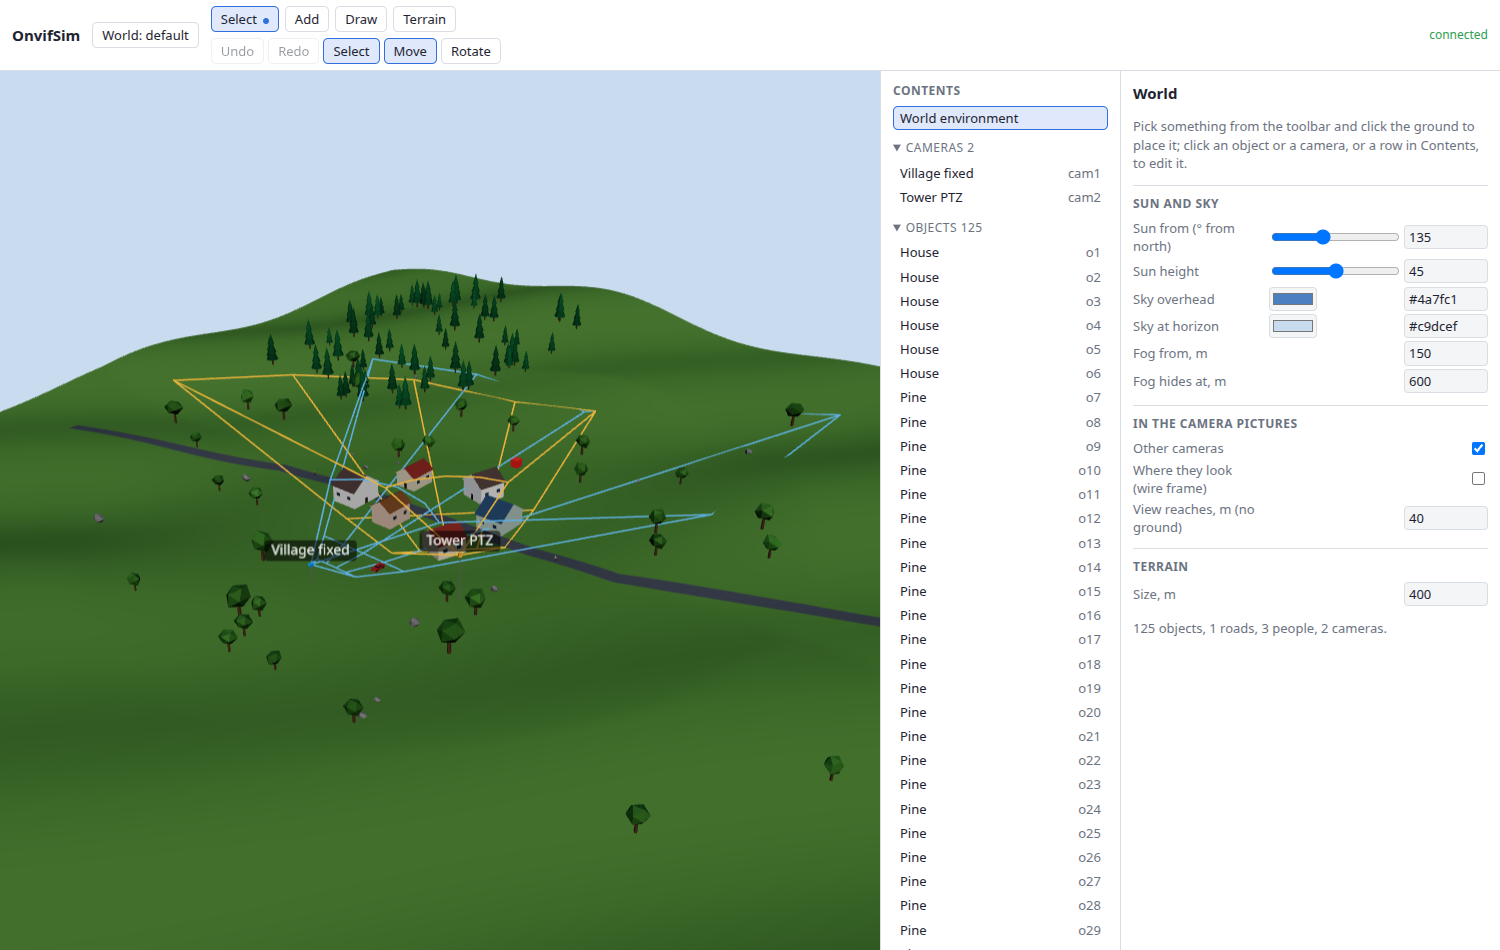
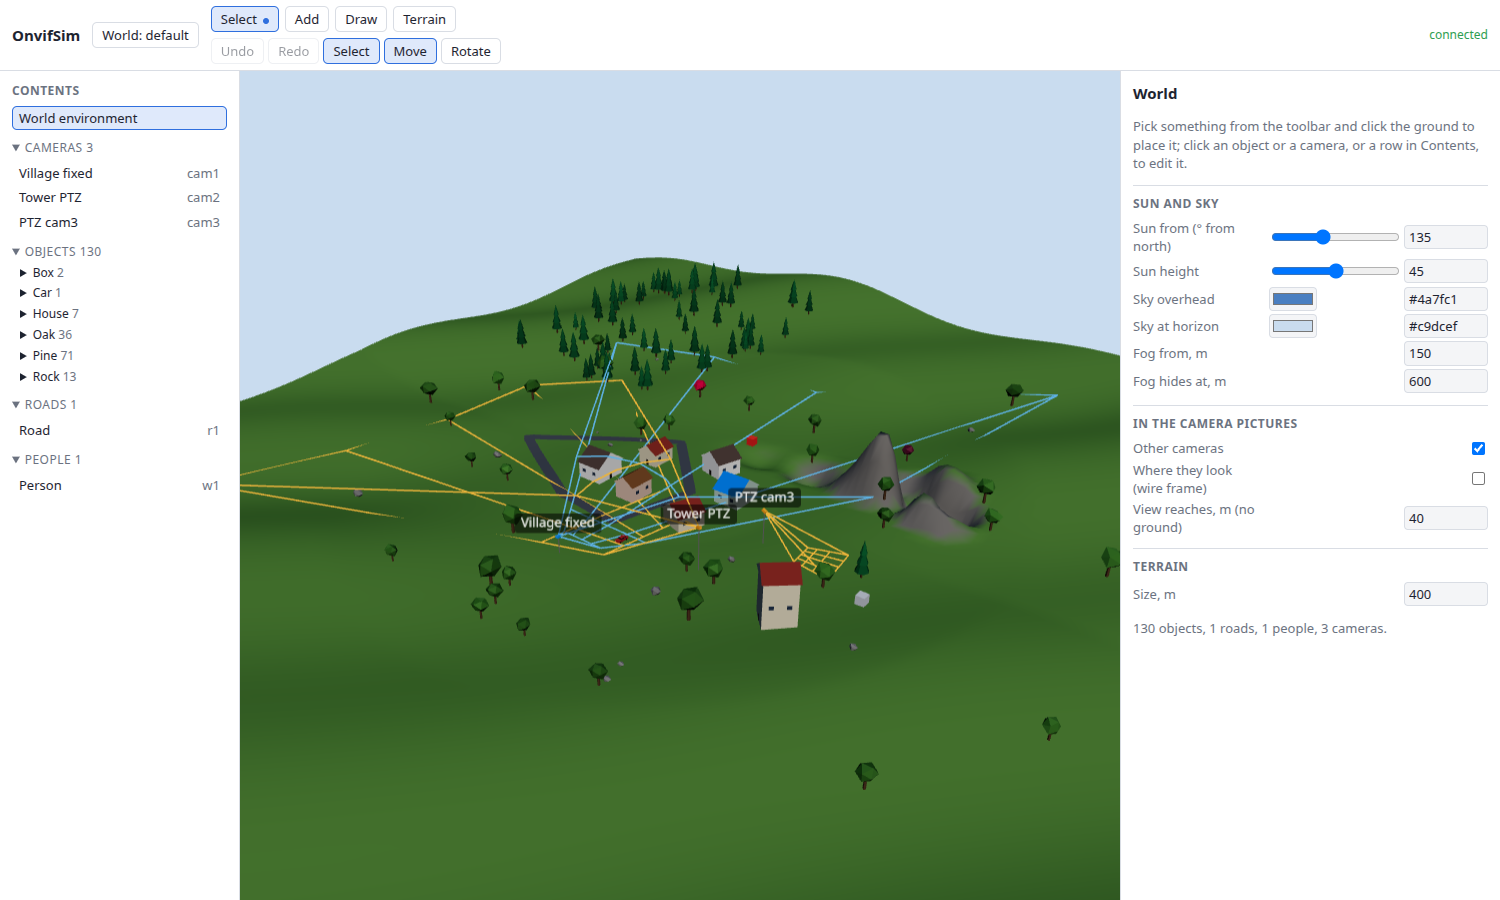
Put the contents tree on the left and group objects by type
The tree sits between the toolbar and the 3D view now, and its object
list folds by type (Car, House, Pine, ...) with the object ids inside,
so a world of a hundred trees stays navigable. The selected object's
type opens by itself, and the screenshots show the new layout.

diff --git a/src/OnvifSim.Web/src/panels/ObjectTree.tsx b/src/OnvifSim.Web/src/panels/ObjectTree.tsx
@@ -1,5 +1,5 @@
 import { type ReactNode } from 'react';
-import { objectTypeNames, type World } from '../model';
+import { objectTypeNames, type ObjectType, type World, type WorldObject } from '../model';
 import { select, useEditor, type Selection } from '../store';
 
 // Every editable thing in the world, grouped. Clicking a row selects it exactly as clicking it in the
@@ -28,15 +28,11 @@ export function ObjectTree({ world }: { world: World }) {
         ))}
       </Group>
       <Group title="Objects" count={world.objects.length}>
-        {world.objects.map((object) => (
-          <Row
-            key={object.id}
-            label={objectTypeNames[object.type]}
-            detail={object.id}
-            active={isSelected('object', object.id)}
-            onClick={() => select({ kind: 'object', id: object.id })}
-          />
-        ))}
+        <ObjectTypes
+          objects={world.objects}
+          selectedId={selection?.kind === 'object' ? selection.id : null}
+          onSelect={(id) => select({ kind: 'object', id })}
+        />
       </Group>
       <Group title="Roads" count={world.roads.length}>
         {world.roads.map((road) => (
@@ -64,6 +60,40 @@ export function ObjectTree({ world }: { world: World }) {
   );
 }
 
+// Objects of one type open together: the type names the rows, and the ids are what the inspector
+// calls them. The group of the selected object opens by itself, so a click in 3D shows its row.
+function ObjectTypes({
+  objects,
+  selectedId,
+  onSelect,
+}: {
+  objects: WorldObject[];
+  selectedId: string | null;
+  onSelect: (id: string) => void;
+}) {
+  const selectedType = objects.find((object) => object.id === selectedId)?.type;
+  const types = (Object.keys(objectTypeNames) as ObjectType[])
+    .filter((type) => objects.some((object) => object.type === type))
+    .sort((a, b) => objectTypeNames[a].localeCompare(objectTypeNames[b]));
+  return (
+    <>
+      {types.map((type) => {
+        const members = objects.filter((object) => object.type === type);
+        return (
+          <details key={type} className="tree-type" open={type === selectedType || undefined}>
+            <summary>
+              {objectTypeNames[type]} <span className="muted">{members.length}</span>
+            </summary>
+            {members.map((object) => (
+              <Row key={object.id} label={object.id} active={object.id === selectedId} onClick={() => onSelect(object.id)} />
+            ))}
+          </details>
+        );
+      })}
+    </>
+  );
+}
+
 function Group({ title, count, children }: { title: string; count: number; children: ReactNode }) {
   return (
     <details open className="tree-group">
@@ -75,11 +105,11 @@ function Group({ title, count, children }: { title: string; count: number; child
   );
 }
 
-function Row({ label, detail, active, onClick }: { label: string; detail: string; active: boolean; onClick: () => void }) {
+function Row({ label, detail, active, onClick }: { label: string; detail?: string; active: boolean; onClick: () => void }) {
   return (
     <button type="button" className="entity" aria-pressed={active} onClick={onClick}>
       <span>{label}</span>
-      <span className="muted">{detail}</span>
+      {detail && <span className="muted">{detail}</span>}
     </button>
   );
 }

diff --git a/src/OnvifSim.Web/src/styles.css b/src/OnvifSim.Web/src/styles.css
@@ -202,7 +202,7 @@ main {
   overflow-y: auto;
   padding: 12px;
   background: var(--panel);
-  border-left: 1px solid var(--border);
+  border-right: 1px solid var(--border);
 }
 
 .tree-group {
@@ -218,6 +218,17 @@ main {
   cursor: pointer;
 }
 
+.tree-type {
+  margin: 2px 0 2px 8px;
+}
+
+.tree-type > summary {
+  margin-bottom: 2px;
+  color: var(--text);
+  letter-spacing: 0;
+  text-transform: none;
+}
+
 .tree .entity {
   display: flex;
   justify-content: space-between;
@@ -227,6 +238,10 @@ main {
   border: 1px solid transparent;
   background: transparent;
   text-align: left;
+}
+
+.tree-type .entity {
+  padding-left: 14px;
 }
 
 .tree .entity:hover:not(:disabled) {

diff --git a/src/OnvifSim.Web/e2e/editor.spec.ts b/src/OnvifSim.Web/e2e/editor.spec.ts
@@ -164,7 +164,9 @@ test('the contents tree selects what it lists', async ({ page }) => {
   await tree.getByRole('button', { name: /Person w1/ }).click();
   await expect(page.getByRole('heading', { level: 2 })).toContainText('Person');
 
-  await tree.getByRole('button', { name: /House/ }).first().click();
+  const houses = tree.locator('details.tree-type', { has: page.locator('summary', { hasText: /^House/ }) });
+  await houses.locator('summary').click();
+  await houses.getByRole('button').first().click();
   await expect(page.getByRole('heading', { level: 2 })).toContainText('House');
 
   await tree.getByRole('button', { name: 'World environment' }).click();

diff --git a/src/OnvifSim.Web/src/App.tsx b/src/OnvifSim.Web/src/App.tsx
@@ -40,8 +40,8 @@ export function App() {
       )}
       {world ? (
         <main>
-          <Viewport world={world} />
           <ObjectTree world={world} />
+          <Viewport world={world} />
           <aside className="inspector">
             <Inspector />
           </aside>

diff --git a/README.md b/README.md
@@ -210,9 +210,10 @@ is marked with a dot, so the viewport keeps doing exactly what it did until anot
   and every camera sees them walking: where they are follows from the clock, so all streams and
   snapshots agree. Drag the points of a selected road or route to reshape it.
 - **Terrain** brushes: Raise, Lower, Smooth and Flatten, with radius and strength.
-- **Contents** lists every camera, object, road and person in the world on the right. Clicking a row
-  selects it exactly as clicking it in 3D does — the reliable way to reach a person only a few pixels
-  tall. The **World environment** row shows the sun, sky, fog and terrain settings.
+- **Contents** lists every camera, object, road and person in the world on the left. Objects are
+  grouped by type, and opening a type shows its ids. Clicking a row selects it exactly as clicking it
+  in 3D does — the reliable way to reach a person only a few pixels tall. The **World environment**
+  row shows the sun, sky, fog and terrain settings.
 
 <p align="center">
   <img src="docs/images/editor-tree.png" alt="The editor: the 3D view, the contents tree with cameras, objects, roads and people, and the inspector" width="90%">
